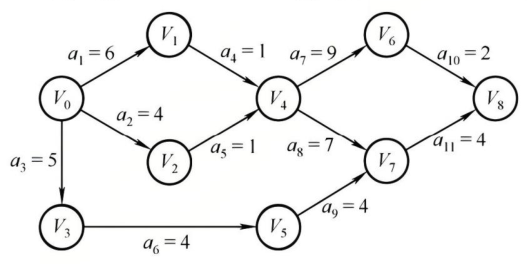
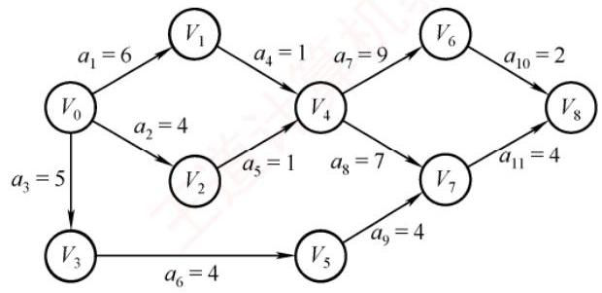
fix(ds): 从做题本重截 22 道含图选择题配图 + 代码题页「📷解答原图」按钮落地 — ①配图:题干含『下图/右图/如右所示』等字样的 33 道 DS 选择题,用做题本 PDF(408习题库/【A4紧凑】27王道《数据结构》-选择部分.pdf)按『章节+节内序号』定位题目区间,取区间内图像 200dpi 重截替换 ds_figs(原图 git 可回滚),19 张题干校验通过/3 张待人工确认,11 张未定位保持原图; ②code.html 补上此前实现未提交的『📷解答原图』独立按钮(卡片头部按钮 + 独立 code-ansfig 区 + toggleAnsfig + localStor

Changed region(s): [[0.0, 0.0, 1.0, 1.0], [0.2424, 0.5152, 0.2727, 0.5455]]

diff --git a/pwa/code.html b/pwa/code.html
@@ -61,6 +61,7 @@
     let codeQuestions = [];
     let codeProgress = {};
     const LS_KEY = 'ds_code_progress';
+    let codeAnsfigOpen = new Set(JSON.parse(localStorage.getItem('code_ansfig_open') || '[]'));
     let codeNavCollapsed = localStorage.getItem('code_nav_collapsed') === '1';
     // 防御：common.js 若被旧缓存拦下（缺新函数），退回纯文本渲染，保证页面不崩
     const fmtC = (typeof fmtContent === 'function') ? fmtContent : (s) => String(s == null ? '' : s);
@@ -125,10 +126,20 @@
         const figs = q.figs || {};
         // 有教材原图的题只显示图片；无配图的题（2024/2025/2026）仍显示文字题面
         const hasQFig = (figs.content || []).length > 0;
+        const answerFigs = figs.answer || [];
         const figHtml = (arr, label) => {
             if (!arr || !arr.length) return '';
             return `<div class="code-figs"><div class="code-figs-label">📷 ${esc(label)}</div>${arr.map(n => `<img src="data/daka_figs/${esc(n)}" loading="lazy" alt="教材原图" onclick="openFigLightbox(this.src)">`).join('')}</div>`;
         };
+        // 「解答教材原图」独立展开区（与讲义解法面板分开，点击头部按钮切换）
+        const answerFigBlock = answerFigs.length ? `
+            <div class="code-ansfig" id="ansfig-${q.id}"${codeAnsfigOpen.has(q.id) ? '' : ' hidden'}>
+                ${figHtml(answerFigs, '解答教材原图')}
+            </div>` : '';
+        const ansfigBtn = answerFigs.length ? `
+            <button class="btn-daka ansfig-toggle${codeAnsfigOpen.has(q.id) ? ' checked' : ''}" onclick="toggleAnsFig('${q.id}')">
+                📷 解答原图${codeAnsfigOpen.has(q.id) ? ' ▴' : ' ▾'}
+            </button>` : '';
         // 讲义解法（优先）；讲义未收录时退回自生成暴力解
         const solHtml = (q) => {
             const s = q.solutions || {};
@@ -169,20 +180,35 @@
                     <span class="daka-badge badge-must">${esc(q.kaodian)}</span>
                     <span class="daka-source">${esc(q.real)}${q.source ? ' · ' + esc(q.source) : ''}</span>
                     ${q.weblink ? `<a class="btn-daka" href="${esc(q.weblink)}" target="_blank" rel="noopener">解析原文 ↗</a>` : ''}
+                    ${ansfigBtn}
                     <button class="btn-daka code-toggle${done ? ' checked' : ''}" onclick="toggleCode('${q.id}')">
                         ${done ? '已会 ✓' : '标记已会'}
                     </button>
                 </div>
                 ${hasQFig ? '' : `<div class="daka-content">${fmtC(q.content)}</div>`}
                 ${figHtml(figs.content, '题目教材原图')}
+                ${answerFigBlock}
                 <details class="daka-answer">
                     <summary>考点分析 · 易错点 · 讲义解法</summary>
                     ${solHtml(q)}
                     <div class="daka-analysis">${esc((q.analysis || '').replace('易错点：', '\n易错点：'))}</div>
-                    ${figHtml(figs.answer, '解答教材原图')}
                 </details>
             </div>
         `;
+    }
+
+    function toggleAnsFig(qid) {
+        const block = document.getElementById('ansfig-' + qid);
+        const btn = document.querySelector(`button.ansfig-toggle[onclick*="${qid}"]`);
+        if (!block) return;
+        const open = block.hasAttribute('hidden');
+        block.hidden = !open;
+        if (btn) {
+            btn.classList.toggle('checked', open);
+            btn.textContent = '📷 解答原图' + (open ? ' ▴' : ' ▾');
+        }
+        if (open) codeAnsfigOpen.add(qid); else codeAnsfigOpen.delete(qid);
+        localStorage.setItem('code_ansfig_open', JSON.stringify([...codeAnsfigOpen]));
     }
 
     function toggleCode(qid) {

diff --git a/_test_qs_mount.js b/_test_qs_mount.js
@@ -26,7 +26,9 @@ const DATA = fs.readFileSync(path.resolve(__dirname, 'pwa/data/algo_notes.json')
 
   check('页面加载无致命错误', !!d.getElementById('algoBody'), true);
   const demos = d.querySelectorAll('[data-qs-demo]');
-  check('快排演示组件已挂载(1 个)', demos.length, 1);
+  check('排序演示已挂载 2 个(快排+冒泡)', demos.length, 2);
+  const kinds = [...demos].map(x => x.dataset.qsKind);
+  check('演示类型含快排(qs)与冒泡(bs)', kinds.includes('qs') && kinds.includes('bs'), true);
   const demo = demos[0];
   const pre = demo.previousElementSibling;
   check('紧挨在代码块之后', pre && pre.classList.contains('algo-code'), true);

diff --git a/pwa/sw.js b/pwa/sw.js
@@ -19,7 +19,7 @@
  */
 const APP_VER = 'quiz408-app-40cace0ac4';
 const DATA_VER = 'quiz408-data-881eec9dfe';
-const LAZY_VER = 'quiz408-lazy-6e4d209b99';
+const LAZY_VER = 'quiz408-lazy-9ad8c6cb31';
 
 // 应用外壳：保证离线骨架与最新脚本。meta.json 仅几百字节，随外壳一起预缓存。
 const APP_PRECACHE = [
